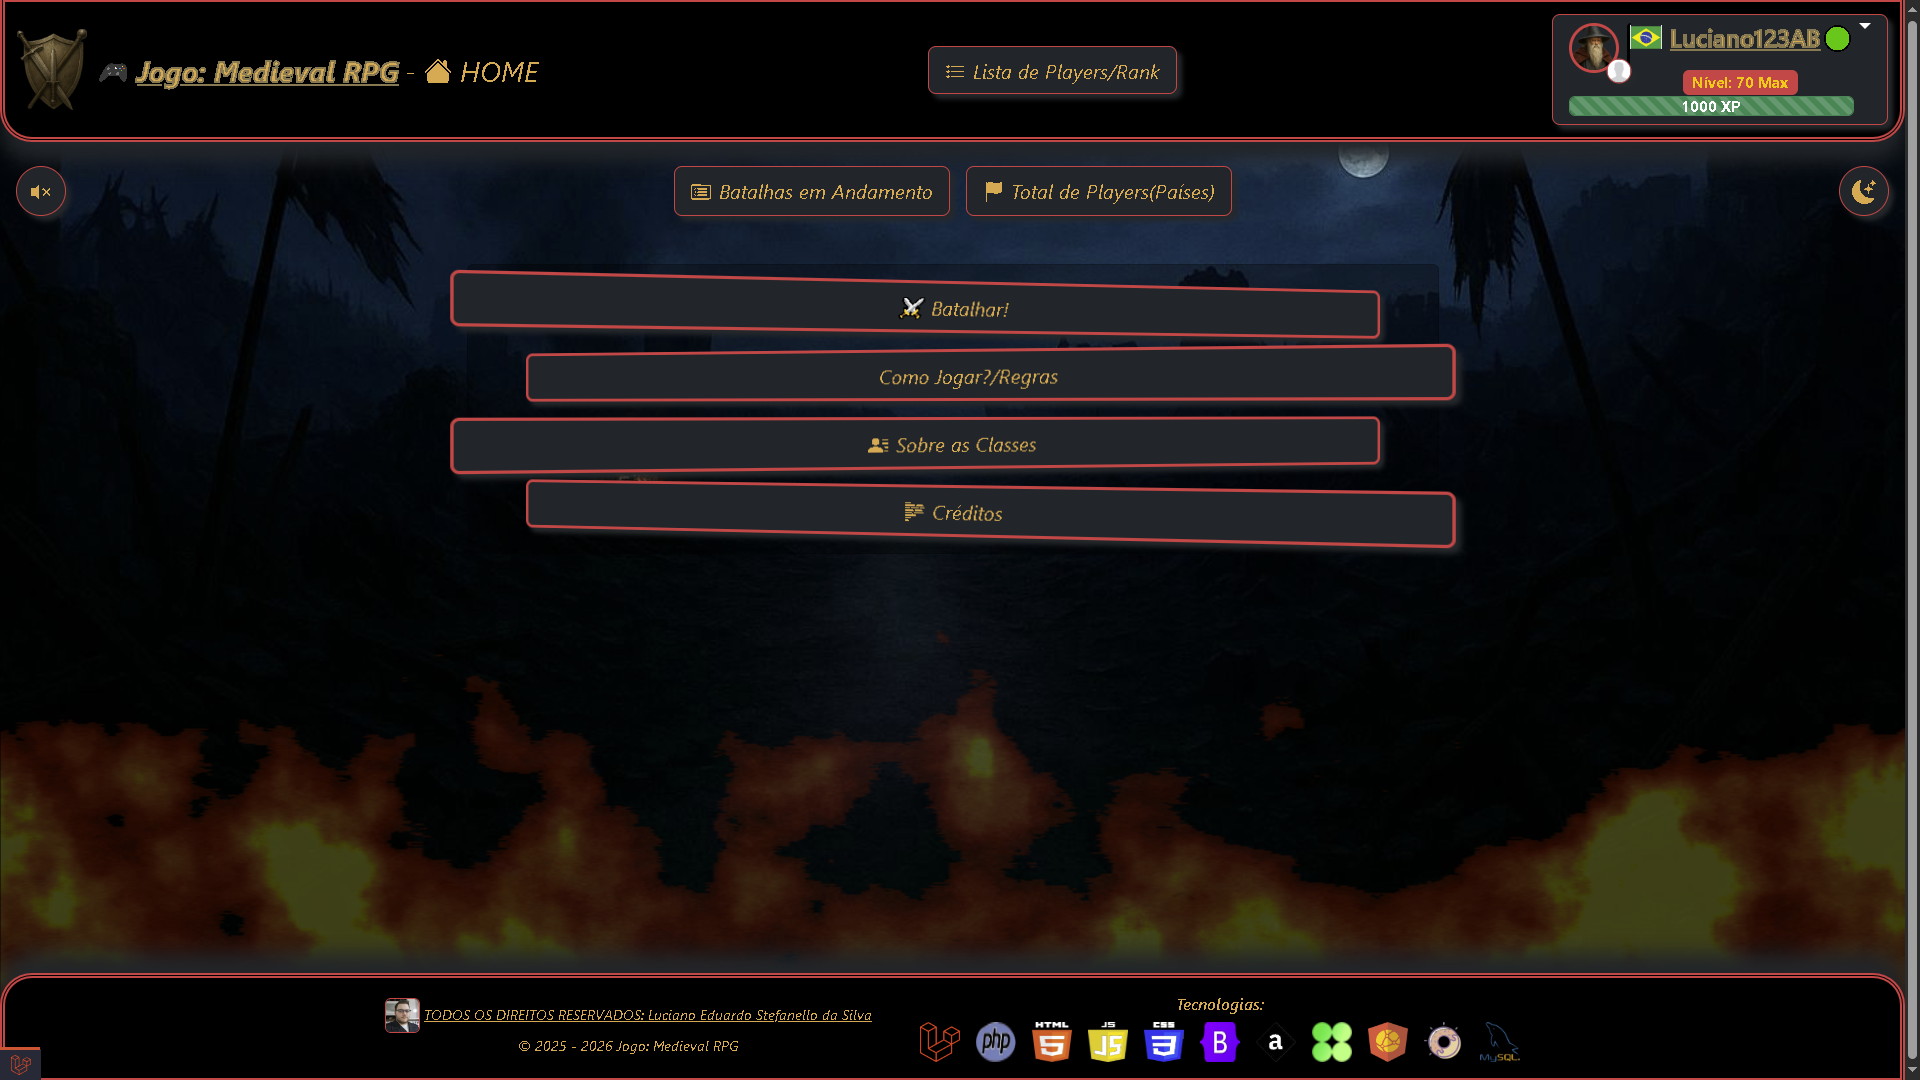
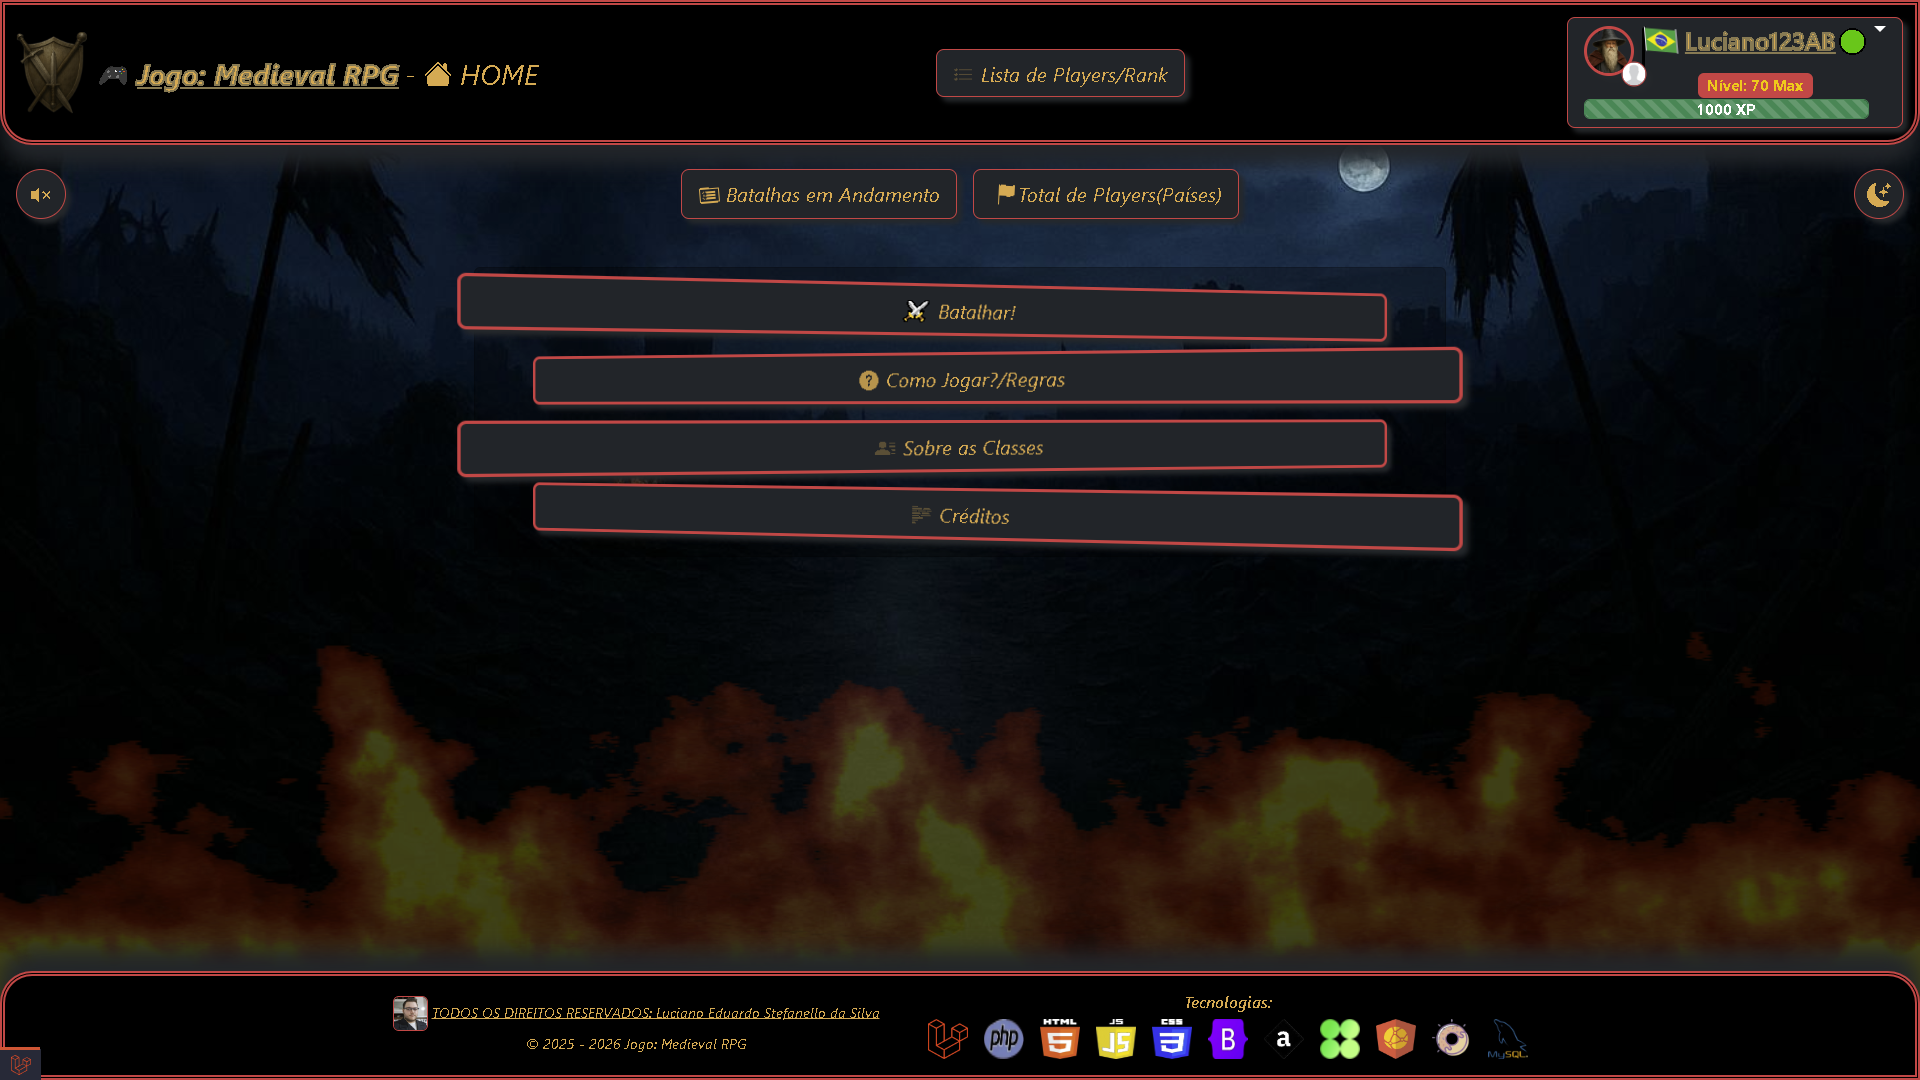
010(Melhorias)

diff --git a/resources/views/index.blade.php b/resources/views/index.blade.php
@@ -1,7 +1,7 @@
 @extends("layouts.main_layout")
 
 @section("content")
-    <div id="espacamento" class="container text-center">
+    <div class="container text-center">
         <div id="index_opcoes" class="fundos_card_{{ $temas[2] }} card mx-auto p-3">
             <div class="perspectiva animate__animated animate__zoomInDown d-grid gap-3">
                 <a href="{{ route("preparacao") }}" class="cursor rotacao_direita sombras botoes btn btn-lg focus-ring btn-{{ $temas[0] }} border-{{ $temas[1] }} focus-ring-{{ $temas[1] }} border border-3">

diff --git a/resources/views/layouts/direitos.blade.php b/resources/views/layouts/direitos.blade.php
@@ -9,7 +9,8 @@
     }
 @endphp
 
-<footer id="rodape" class="bg-{{ $temas[0] }} border-{{ $temas[1] }} border-5 rounded-top-5 text-center mt-5 py-3">
+<div class="mt-5"></div>
+<footer id="rodape" class="bg-{{ $temas[0] }} border-{{ $temas[1] }} border-5 rounded-top-5 text-center mt-auto py-3">
     <div class="d-flex justify-content-center gap-5 flex-wrap align-items-center">
         <div>
             <img src="{{ asset('assets/images/proprietario.png') }}" style="width: 35px; height: 35px;" class="border border-{{ $temas[1] }} rounded-2">

diff --git a/resources/views/layouts/partials/styles/estilos.blade.php b/resources/views/layouts/partials/styles/estilos.blade.php
@@ -15,7 +15,6 @@
         transform: scale(0);
         pointer-events: none;
         z-index: 9999;
-
         background: radial-gradient(circle, #e5a350, orange, transparent);
         animation: ripple-rpg 700ms ease-out;
     }
@@ -119,10 +118,6 @@
     
     .fundos_card_escuro {
         background-color: rgba(127, 127, 127, 0.3);        
-    }
-
-    #espacamento {
-        margin-bottom: 22%;
     }
 
     #index_opcoes {

diff --git a/resources/views/layouts/main_layout.blade.php b/resources/views/layouts/main_layout.blade.php
@@ -11,7 +11,7 @@
 
     @include("layouts.partials.styles.estilos")
 </head>
-<body class="bg-dark fst-italic">
+<body class="bg-dark fst-italic d-flex flex-column min-vh-100">
     <div id="fundo"></div>
 
     @include("layouts.partials.alertas")
